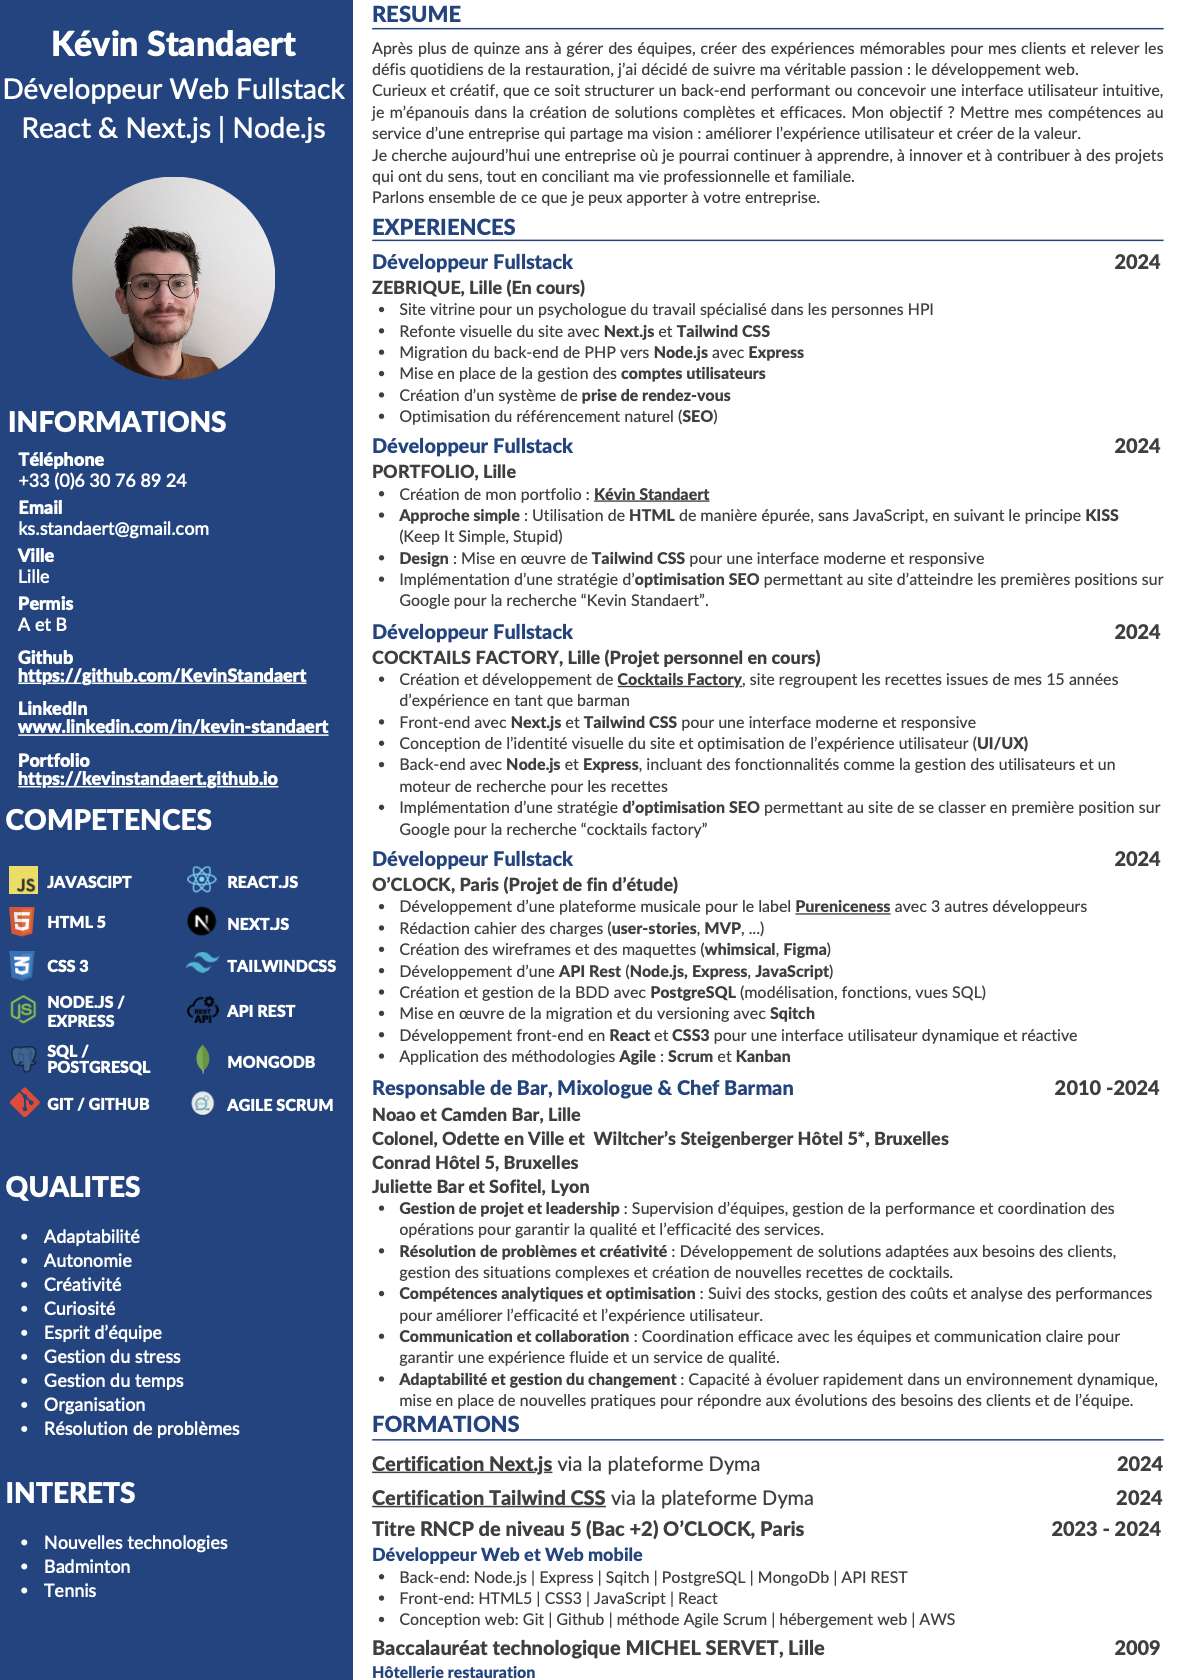
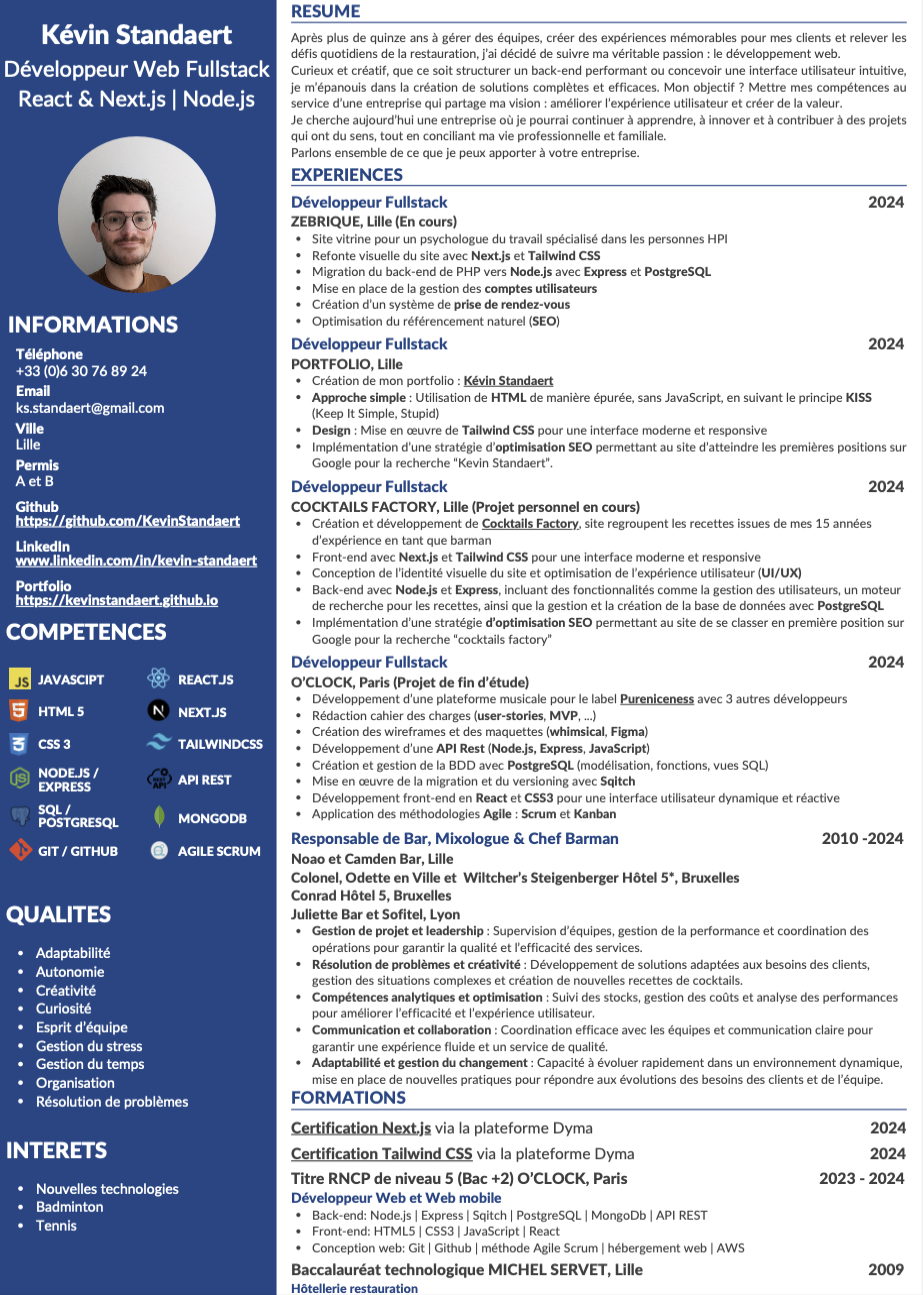
update: link and image cv

diff --git a/index.html b/index.html
@@ -490,7 +490,7 @@
         <a
           target="_blank"
           class="mb-8 rounded-xl bg-sundown-100 p-8 text-center text-xl font-extrabold shadow-xl transition-all hover:scale-110 hover:bg-sundown-900 hover:text-white active:bg-sundown-400 lg:text-3xl"
-          href="https://drive.google.com/file/d/19uH16pu4tuaZoV6Opg8BiqaDRzpt1dgt/view?usp=drive_link"
+          href="https://drive.google.com/file/d/1GIsDNbYijxvPT9kvW1-TWRk6-GF_IT9z/view?usp=drive_link"
           download="cv_kevin-standaert.pdf"
           >Télécharger</a
         >
